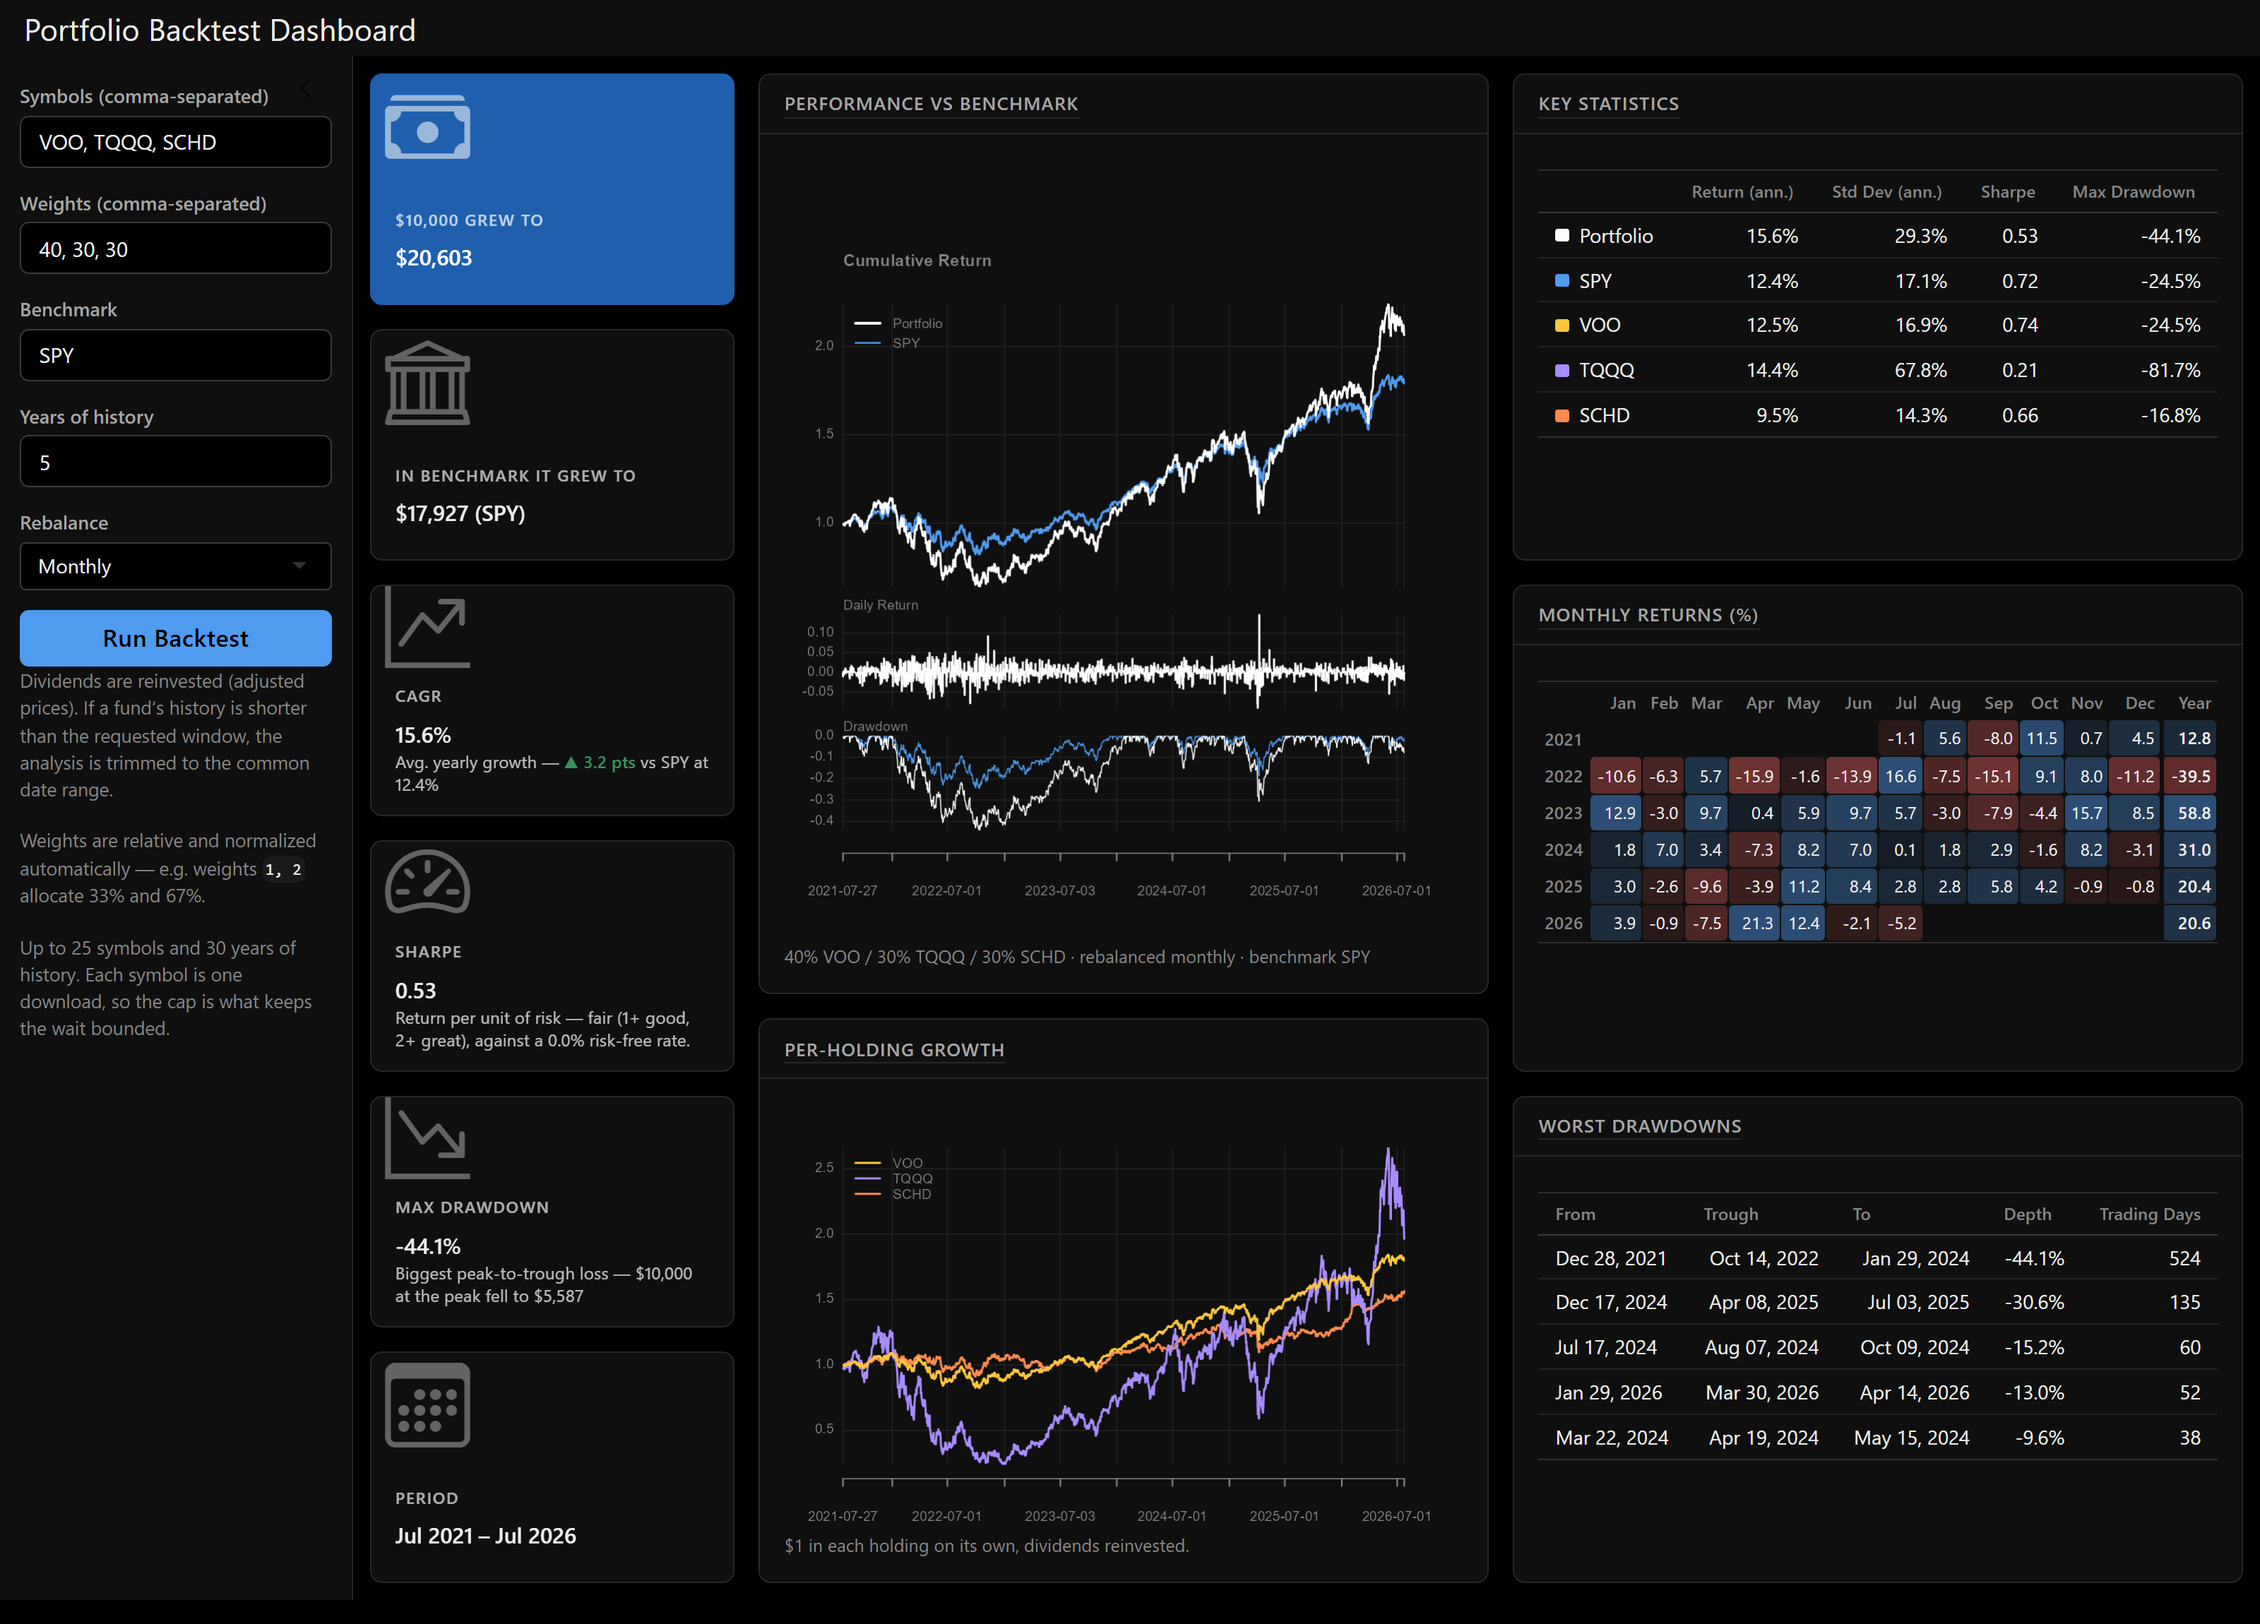
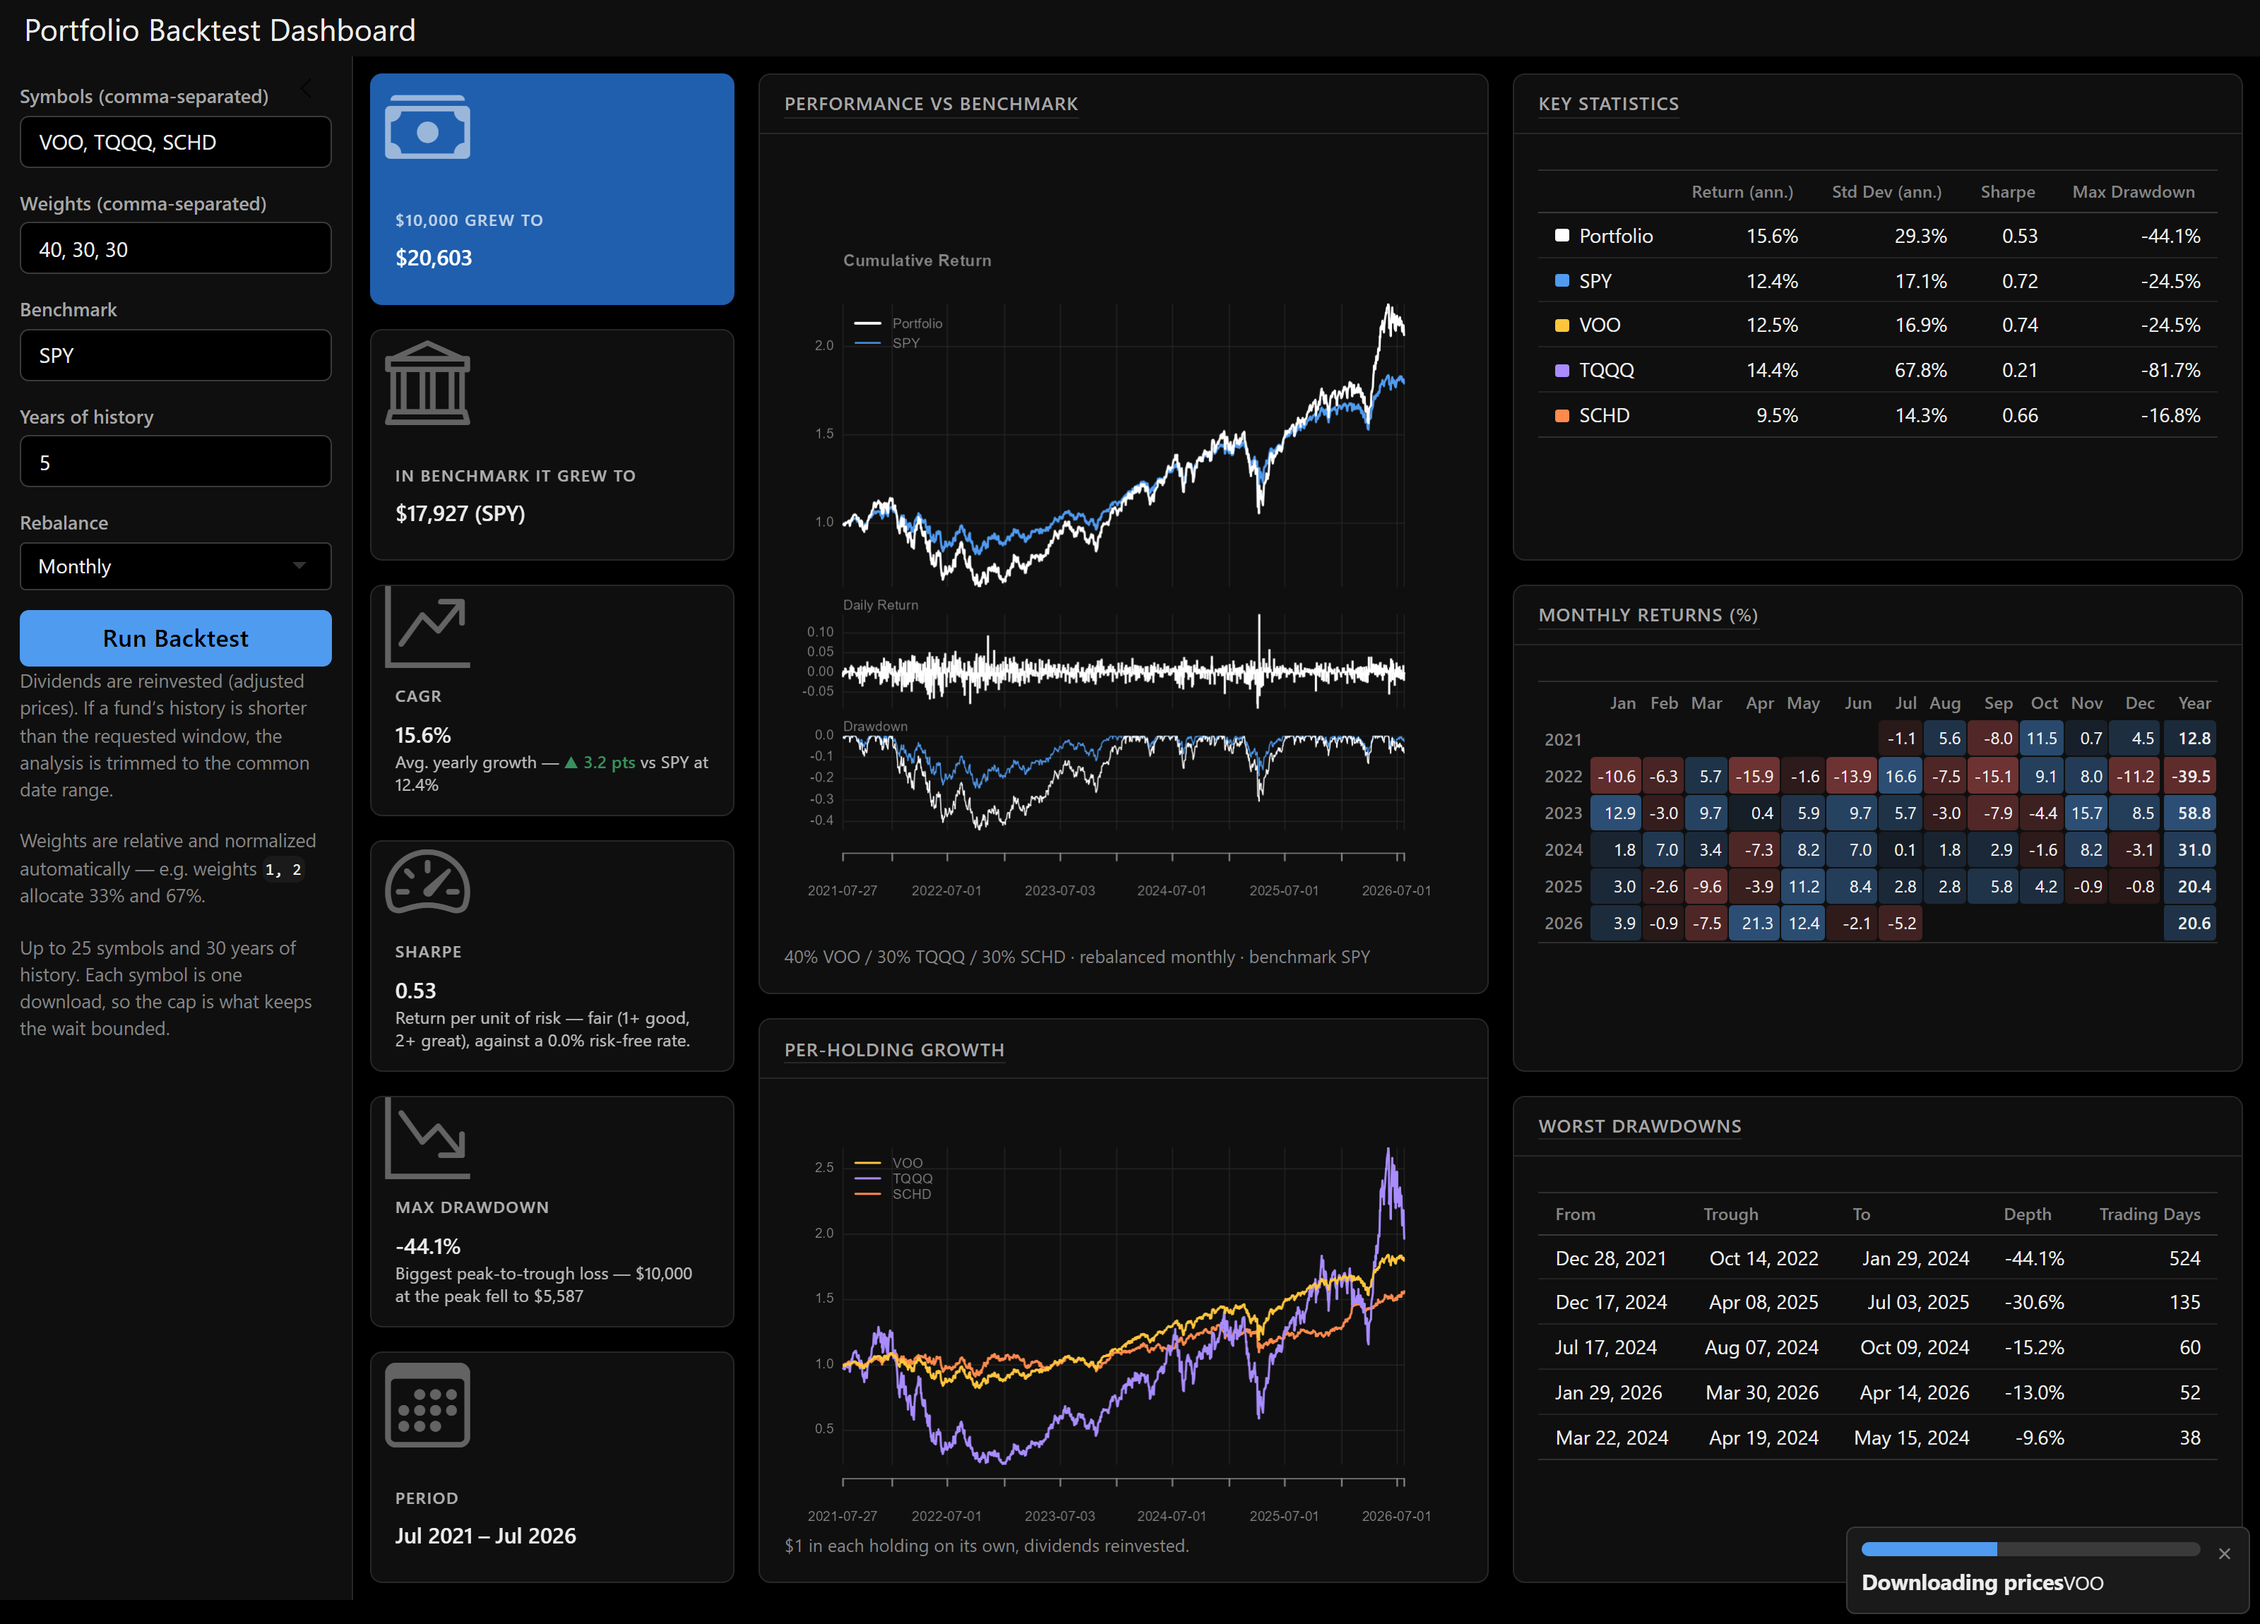
Theme the transient UI, and audit what a screenshot cannot show
A progress notification is the one component here that never appears in a
screenshot, and it went through the whole dark conversion still wearing
Shiny's defaults -- #e8e8e8 on #333. withProgress() paints one on every
backtest, over the sequential downloads, which is the longest the user ever
waits and the one moment they watch a single element.

The audit now checks text colour as well as background, injects Shiny's
notification markup so it can measure something the DOM does not otherwise
contain, and takes --check to run against the static render with no server
and no network.

Checking against that static render is not sufficient, and the difference
found a real bug: it omits shiny.min.css, which loads after this theme and
wins on source order at equal specificity. The notification rules passed the
static check and failed the live one, which is why they are scoped to
#shiny-notification-panel.

Two things I set out to fix turned out not to be real, and are documented
rather than papered over. The --bs-light / --bs-tertiary-bg / --bs-secondary-bg
layer looks like an unconverted light theme waiting to leak; var() reads it
zero times, so those assignments did nothing and came out. And element.color,
which reads like the knob for the drawdown panel's zero line, reaches no
pixel: magenta through it paints 0 px where the same probe on grid.color
paints 13,731. It is removed for the same reason ylab was.

Changed region(s): [[0.8125, 0.9261, 1.0, 1.0]]

diff --git a/theme.scss b/theme.scss
@@ -17,8 +17,8 @@
 // card surface that no longer matches the plot painted to match it.
 //
 // The tag is the registration. Adding a seam means adding a tag, and no count
-// is written down anywhere — an earlier version of this comment claimed "five"
-// while seven pairs were being asserted.
+// is written down anywhere — earlier versions of this comment kept drifting out
+// of step with the number of pairs actually asserted, in two files at once.
 //
 // Series hues live in portfolio_core.R and are validated there against this
 // surface. Only slot 1 crosses into CSS, as $viz-series-1, because it doubles
@@ -35,8 +35,13 @@ $viz-ink:       #ededed; // primary ink             [seam: INK_COLOR]
 $viz-ink-2:     #a6a6a6; // secondary ink
 $viz-muted:     #858585; // axis labels, captions   [seam: INK_MUTED]
 $viz-grid:      #232323; // hairline gridline       [seam: GRID_COLOR]
-$viz-rule:      #3a3a3a; // baseline / axis         [seam: RULE_COLOR]
+$viz-rule:      #3a3a3a; // input borders, table rule
 $viz-hairline:  rgba(255, 255, 255, 0.10);
+
+// One step above the card, for things that sit *on* a card rather than being
+// one: an inline code pill, a floating notification. On black, elevation only
+// runs upward, so this is the only direction available for "in front".
+$viz-raised:    #1a1a1a;
 
 // Data — categorical slot 1 doubles as the UI accent
 $viz-series-1:  #4f9bf0; //                         [seam: SERIES_SLOTS[1]]
@@ -85,8 +90,29 @@ $input-focus-border-color: $viz-series-1;
 // sidebar — 2.96:1, the same class of miss as the .bg-light value box. Ink is
 // $viz-ink, not $viz-series-1: the accent's job is marking the benchmark
 // wherever it appears, and spending it on inline code would dilute that.
-$code-bg:                 #1a1a1a; // a step above the card, so code reads as inset
+$code-bg:                 $viz-raised;
 $code-color:              $viz-ink;
+
+// The progress track is a light grey and the bar is $primary. Neither is
+// reachable from a screenshot: withProgress() paints them on every backtest,
+// over the sequential downloads, and they are gone before anything is captured.
+$progress-bg:             $viz-rule;
+$progress-bar-bg:         $viz-series-1;
+
+// A note for the next person who goes looking, because it cost an hour here.
+// The compiled CSS still declares --bs-light, --bs-tertiary-bg and
+// --bs-secondary-bg as #f8f9fa, which looks like an unconverted light layer
+// waiting to leak. It is not: grep the compiled stylesheet and var(--bs-light),
+// var(--bs-tertiary-bg) and var(--bs-secondary-bg) are read zero times. Setting
+// $light and friends here changes nothing, so those assignments were removed
+// rather than left looking load-bearing.
+//
+// Every real defect of this kind has come from a *rule* with a hardcoded
+// colour, not from that variable layer: Quarto's own
+// .quarto-dashboard .card.valuebox.bslib-card.bg-light (#f8f9fa !important),
+// Bootstrap's bare `code`, and Shiny's .shiny-notification. Rules cannot be
+// closed off in advance — the defence is the computed-style audit in
+// tools/capture-screenshot.mjs, which is why it exists.
 
 /*-- scss:rules --*/
 
@@ -238,6 +264,49 @@ $code-color:              $viz-ink;
 
   li:last-child { margin-bottom: 0; }
 }
+
+// ── Transient UI ─────────────────────────────────────────────────────────────
+//
+// A progress notification is the one component here that cannot appear in a
+// screenshot, and it went through an entire dark conversion still wearing
+// Shiny's defaults — #e8e8e8 on #333 — because every check we had looked at a
+// still image of the settled page. withProgress() paints one on every backtest,
+// over the sequential downloads, which is the longest the user ever waits and
+// the one moment they are watching a single element.
+//
+// These are Shiny's own class names, not Bootstrap's, so no variable reaches
+// them; the rules have to be written out. tools/capture-screenshot.mjs --check
+// injects this markup and asserts the computed colours, because nothing else
+// can see it.
+
+// Scoped to the panel id, and that is load-bearing rather than tidy.
+// shiny.min.css loads after this theme and sets .shiny-notification to #e8e8e8
+// on #333 at one class of specificity, so a bare .shiny-notification rule here
+// loses on source order — verified: the static page audited clean and the
+// served app still came back rgb(232,232,232). The id takes it decisively
+// without !important, and #shiny-notification-panel is where Shiny puts these
+// anyway, so the selector describes the real structure.
+#shiny-notification-panel .shiny-notification {
+  background-color: $viz-raised;
+  color: $viz-ink;
+  border: 1px solid $viz-rule;
+  border-radius: 0.375rem;
+  // Shiny ships opacity 0.85. Over a black plane that does not soften the box,
+  // it just drains the ink toward the background.
+  opacity: 1;
+}
+
+#shiny-notification-panel .shiny-notification-close {
+  color: $viz-muted;
+
+  &:hover { color: $viz-ink; }
+}
+
+// The old-style progress bar (shiny.progress.style = "old") pins a strip to the
+// top of the window with its own #eef8ff caption. This dashboard uses the
+// notification style, which is Shiny's default, so that strip is unreachable
+// today — left unstyled deliberately rather than shipping a rule nothing can
+// exercise, which is how the untested-CSS problem started.
 
 // ── Value boxes ──────────────────────────────────────────────────────────────
 //

diff --git a/README.md b/README.md
@@ -74,6 +74,34 @@ jumps size, and fails the run if any card is clipping content behind a
 scrollbar. Needs Node 18+ and Chrome; set `CHROME_PATH` if Chrome isn't in a
 standard location.
 
+## Checking the theme
+
+The test suite validates colour *values* — contrast ratios, colourblind
+separation, and that `theme.scss` and `portfolio_core.R` still agree. It cannot
+validate *outcomes*, because it never compiles the SCSS or resolves the cascade.
+That gap is real: Quarto and Shiny both ship rules with hardcoded light colours
+that outrank this theme, and three components shipped looking correct in source
+while rendering light in the browser.
+
+The same tool audits computed styles, including UI that no screenshot can
+contain — it injects Shiny's progress-notification markup and measures it:
+
+```bash
+node tools/capture-screenshot.mjs --check file://$(pwd)/portfolio_dashboard.html
+```
+
+That form needs only `quarto render` — no server, no network. **Run it against
+the served app too before trusting it.** The static page omits `shiny.min.css`,
+which loads *after* this theme and wins on source order at equal specificity;
+the notification styling passed the static check and failed the live one.
+
+```bash
+node tools/capture-screenshot.mjs --check http://127.0.0.1:4455/
+```
+
+Both forms exit non-zero on a mismatch, and a selector matching no elements
+counts as a mismatch rather than a silent pass.
+
 ## Tests
 
 The suite runs entirely on synthetic fixtures (no network needed) and covers
